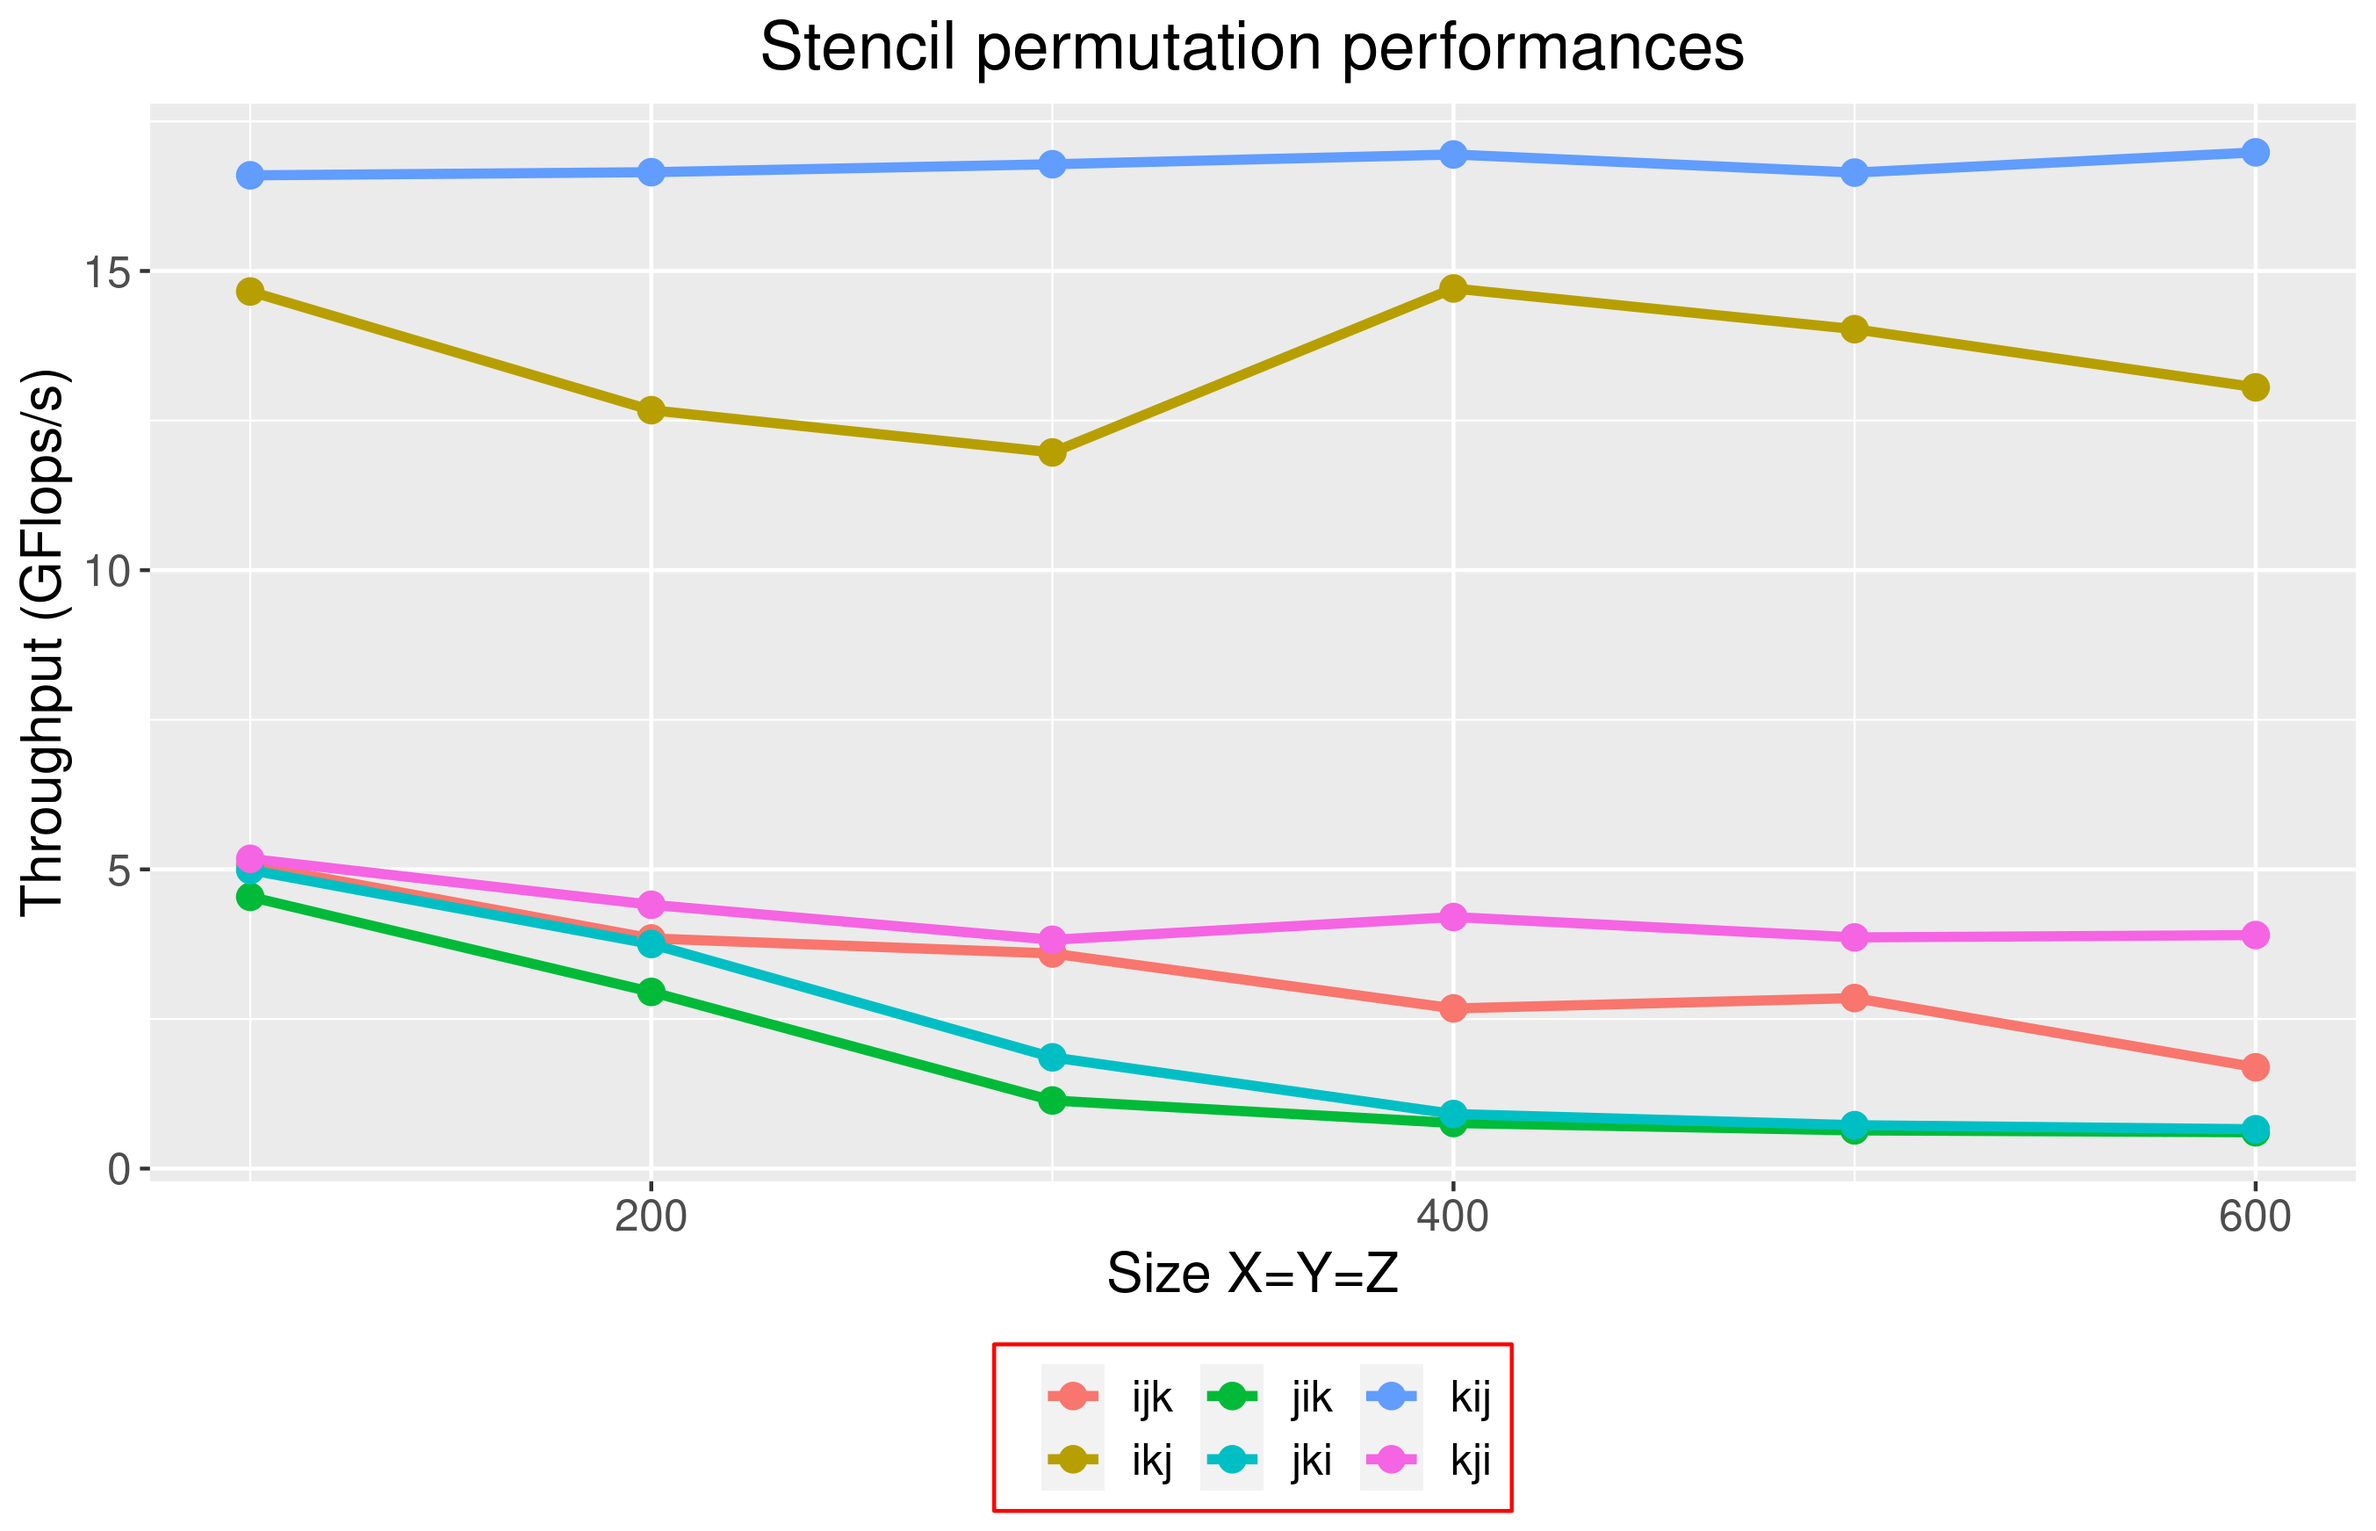
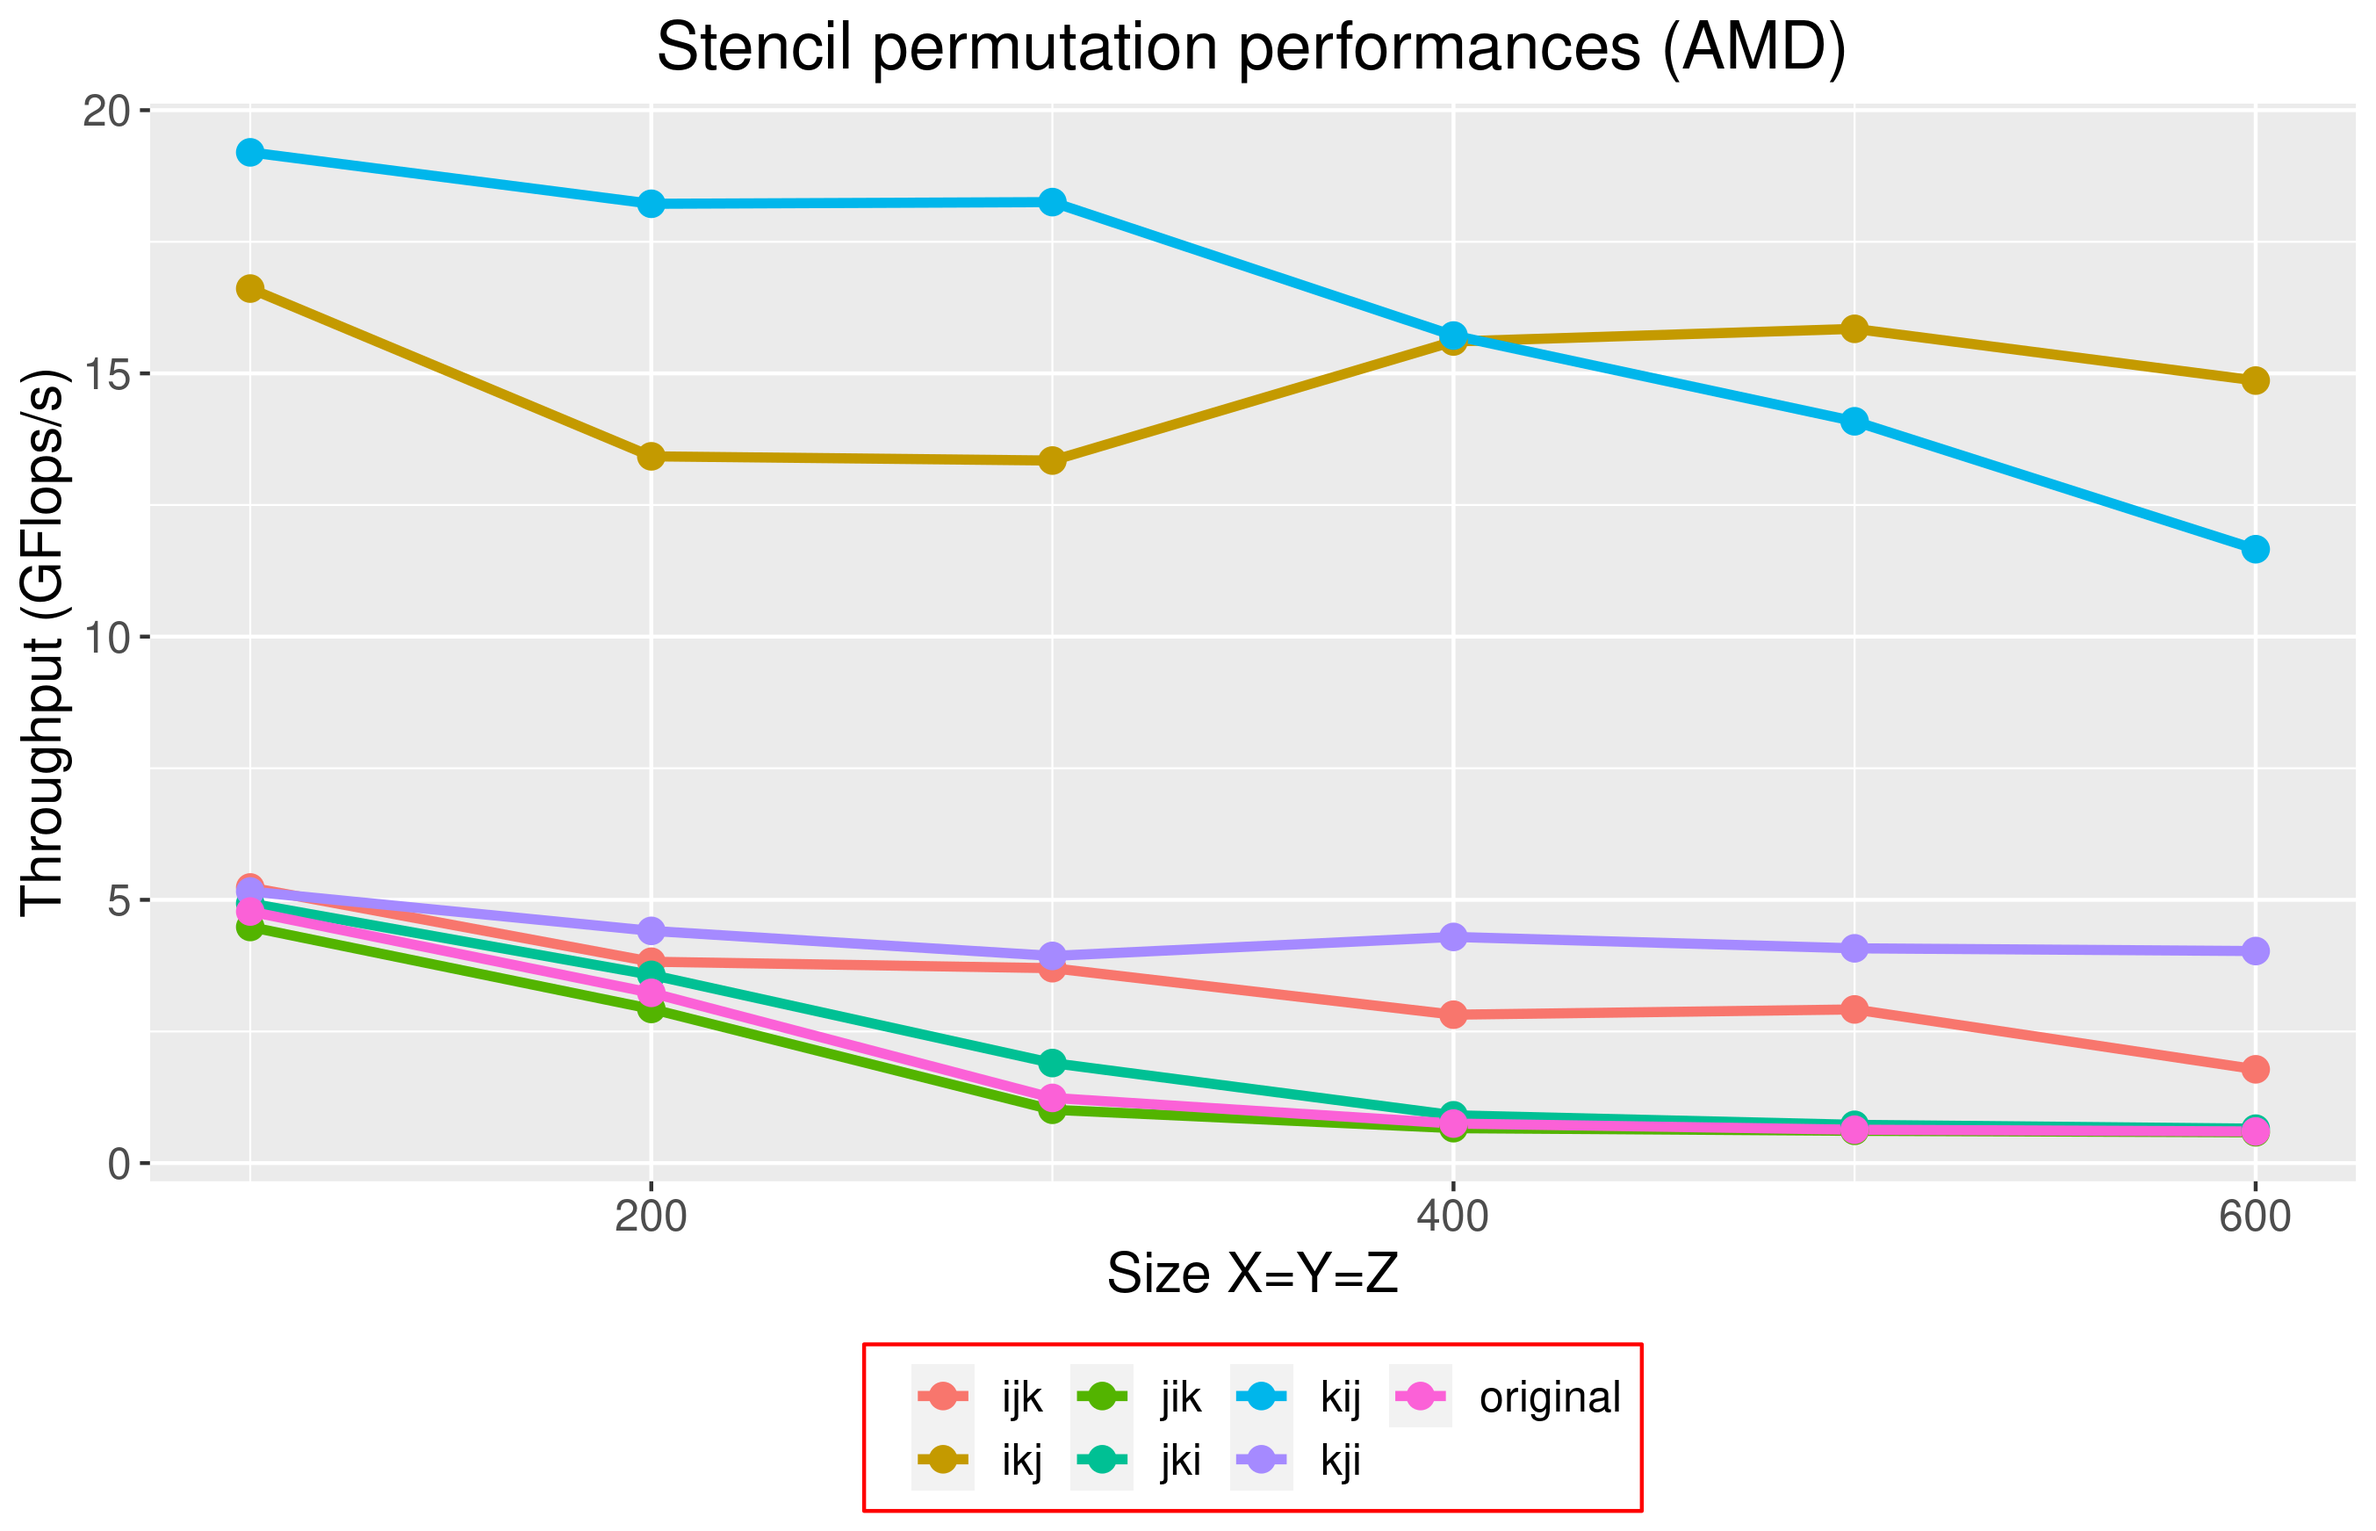
more benchy

diff --git a/src/main.c b/src/main.c
@@ -55,10 +55,13 @@ int main(int argc, char **argv) {
     strcpy(name, "vecto");
     it = bench_stencil_time(stencil3d_vecto, a, b, TIME);
     //check = test_function(stencil3d_vecto);
-#else
-    strcpy(name, "original");
+#elif BLOCKS
+    strcpy(name, "blocked");
     it = bench_stencil_time(stencil3d_block, a, b, TIME);
-    check = test_function(stencil3d_block);
+    //check = test_function(stencil3d_block);
+#else
+  strcpy(name, "original");
+  it = bench_stencil_time(stencil3d, a, b, TIME);
 #endif
 
     cputime = omp_get_wtime() - start;

diff --git a/src/blocks.c b/src/blocks.c
@@ -10,7 +10,7 @@ void stencil3d_block(float *a, float *b) {
     int ii, jj, kk;
     float *aa, *bb;
     const int sizezx = SIZEZ * SIZEX;
-#pragma omp parallel for collapse(3) private(i,j,k,ii,jj,kk, aa, bb) schedule(dynamic) default(shared)
+//#pragma omp parallel for collapse(3) private(i,j,k,ii,jj,kk, aa, bb) schedule(dynamic) default(shared)
     for (k = 1; k < SIZEZ - 1 - BSIZE; k += BSIZE)
             for (j = 1; j < SIZEY - 1 - BSIZE; j += BSIZE)
         for (i = 1; i < SIZEX - 1 - BSIZE; i += BSIZE)
